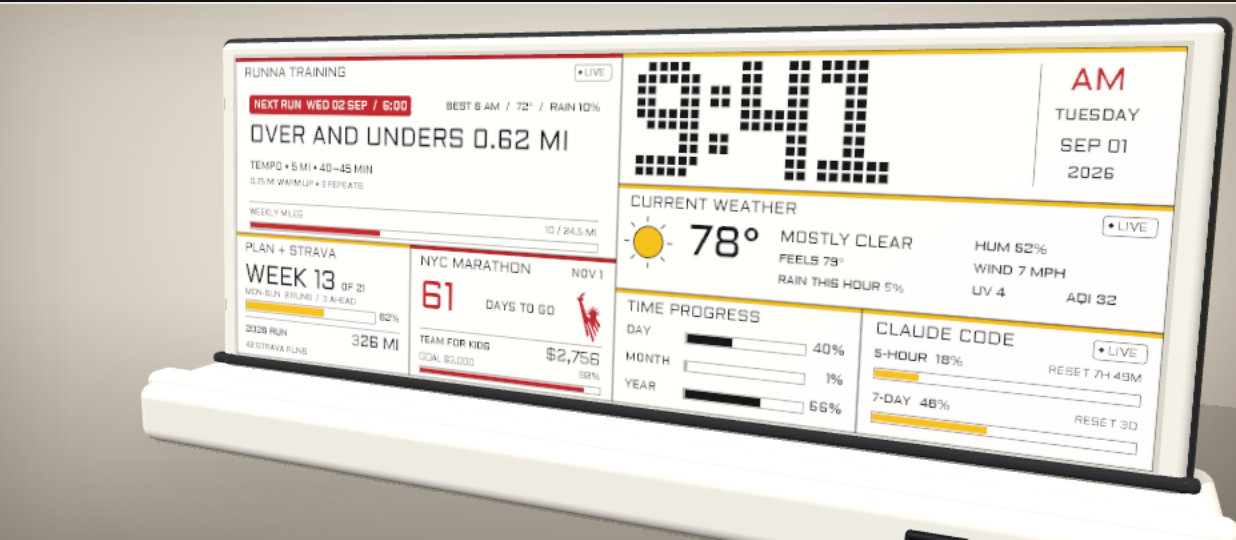
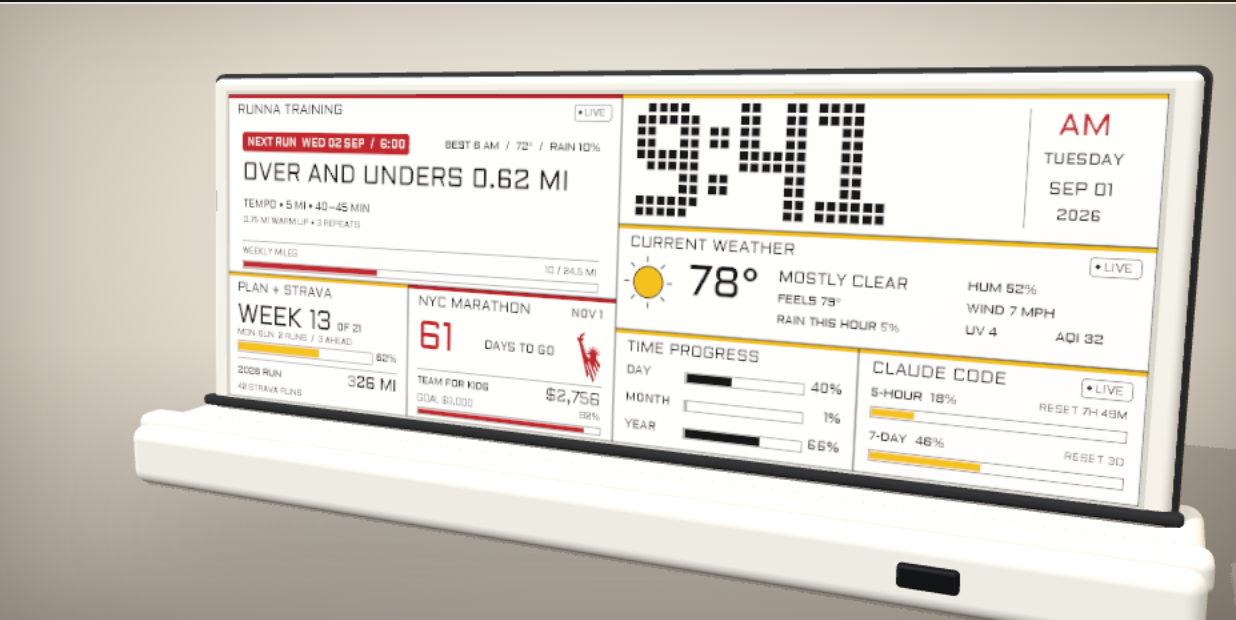
Fill tall e-paper spotlight layout

diff --git a/components/portfolio/SpotlightTile.tsx b/components/portfolio/SpotlightTile.tsx
@@ -429,7 +429,7 @@ function SpotlightPreviewProjectPanel({
           <div
             data-epaper-product-viewer="true"
             data-epaper-product-poster="true"
-            className="relative aspect-[17/7.4] overflow-hidden rounded-[13px] bg-[#b4ab9d] ring-1 ring-inset ring-white/20 shadow-[0_18px_42px_rgba(0,0,0,0.34)]"
+            className="relative aspect-[17/7.4] shrink overflow-hidden rounded-[13px] bg-[#b4ab9d] ring-1 ring-inset ring-white/20 shadow-[0_18px_42px_rgba(0,0,0,0.34)] min-[1024px]:[@media(min-height:1180px)]:aspect-[2/1] min-[1024px]:[@media(min-height:1180px)]:shrink-0"
           >
             <Image
               src="/images/epaper-dashboard-studio.webp"
@@ -456,11 +456,13 @@ function SpotlightPreviewProjectPanel({
           </div>
         )}
 
-        <div className="relative flex min-h-0 items-start gap-3">
+        <div className={`relative flex min-h-0 gap-3 ${item.id === 'epaper-dashboard' ? 'grow items-center' : 'items-start'}`}>
           <div className="min-w-0 flex-1">
             <div className="flex min-w-0 items-baseline gap-2">
               <div
-                className="truncate text-[17px] font-semibold leading-tight tracking-tight sm:text-[19px]"
+                className={`truncate font-semibold leading-tight tracking-tight ${item.id === 'epaper-dashboard'
+                  ? 'text-[17px] sm:text-[19px] min-[1024px]:[@media(min-height:1180px)]:text-[24px]'
+                  : 'text-[17px] sm:text-[19px]'}`}
                 style={{ color: isLight ? '#1c1a1c' : '#fff' }}
               >
                 {item.title}
@@ -469,6 +471,14 @@ function SpotlightPreviewProjectPanel({
                 {item.eyebrow}
               </span>
             </div>
+            {item.id === 'epaper-dashboard' ? (
+              <p
+                className="mt-1 hidden text-[12px] font-semibold leading-tight min-[1024px]:[@media(min-height:1180px)]:block"
+                style={{ color: accent }}
+              >
+                {item.subtitle}
+              </p>
+            ) : null}
             <p className="mt-0.5 line-clamp-2 text-[10.5px] leading-snug sm:text-[11px]" style={{ color: palette.bodyText }}>
               {item.description}
             </p>
@@ -484,6 +494,36 @@ function SpotlightPreviewProjectPanel({
             </Link>
           ) : null}
         </div>
+
+        {item.id === 'epaper-dashboard' ? (
+          <dl
+            aria-label="E-paper dashboard specifications"
+            className="relative hidden shrink-0 grid-cols-3 overflow-hidden rounded-[10px] min-[1024px]:[@media(min-height:1180px)]:grid"
+            style={{
+              color: isLight ? '#1c1a1c' : '#fff',
+              background: isLight ? 'rgba(0,0,0,0.035)' : 'rgba(255,255,255,0.035)',
+              border: palette.cardBorder,
+            }}
+          >
+            {[
+              { label: 'Display', value: '10.85″', color: '#f87171' },
+              { label: 'Canvas', value: '1360 × 480', color: '#67e8f9' },
+              { label: 'E-paper', value: '4-color', color: '#facc15' },
+            ].map((spec, index) => (
+              <div
+                key={spec.label}
+                className="min-w-0 px-3 py-2.5"
+                style={{ borderLeft: index ? palette.cardBorder : undefined }}
+              >
+                <dt className="flex items-center gap-1.5 text-[8px] font-semibold uppercase tracking-[0.16em]" style={{ color: palette.mutedText }}>
+                  <span aria-hidden="true" className="h-1.5 w-1.5 shrink-0 rounded-full" style={{ background: spec.color }} />
+                  {spec.label}
+                </dt>
+                <dd className="mt-1 truncate text-[13px] font-semibold tracking-tight">{spec.value}</dd>
+              </div>
+            ))}
+          </dl>
+        ) : null}
       </div>
     </div>
   )

diff --git a/tests/portfolio.spec.ts b/tests/portfolio.spec.ts
@@ -44,6 +44,28 @@ test('shows the e-paper interface preview and links to its guided case study', a
   await expect(activeSpotlight.getByRole('link', { name: 'Explore' })).toHaveAttribute('href', '/work/epaper-dashboard')
 })
 
+test('uses the tall spotlight space for the e-paper product dossier', async ({ page }, testInfo) => {
+  test.skip(testInfo.project.name !== 'chromium-desktop')
+  await page.setViewportSize({ width: 1526, height: 1259 })
+  await openHome(page)
+
+  const activeSpotlight = page.locator('.spotlight-slide[aria-hidden="false"]')
+  const productPoster = activeSpotlight.locator('[data-epaper-product-poster="true"]')
+  const posterBox = await productPoster.boundingBox()
+  const cardSizing = await productPoster.evaluate((poster) => ({
+    clientHeight: poster.parentElement?.clientHeight ?? 0,
+    scrollHeight: poster.parentElement?.scrollHeight ?? 0,
+  }))
+
+  expect(posterBox).not.toBeNull()
+  expect((posterBox?.width ?? 0) / (posterBox?.height ?? 1)).toBeCloseTo(2, 1)
+  expect(cardSizing.scrollHeight).toBe(cardSizing.clientHeight)
+  await expect(activeSpotlight.getByText('Runner-first command center')).toBeVisible()
+  await expect(activeSpotlight.getByLabel('E-paper dashboard specifications')).toContainText('10.85″')
+  await expect(activeSpotlight.getByLabel('E-paper dashboard specifications')).toContainText('1360 × 480')
+  await expect(activeSpotlight.getByLabel('E-paper dashboard specifications')).toContainText('4-color')
+})
+
 test('opens and closes primary modals', async ({ page }) => {
   await openHome(page)
   await page.waitForLoadState('networkidle')
